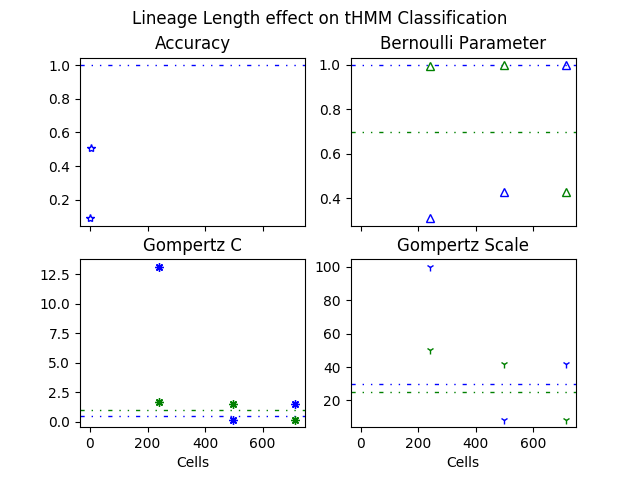
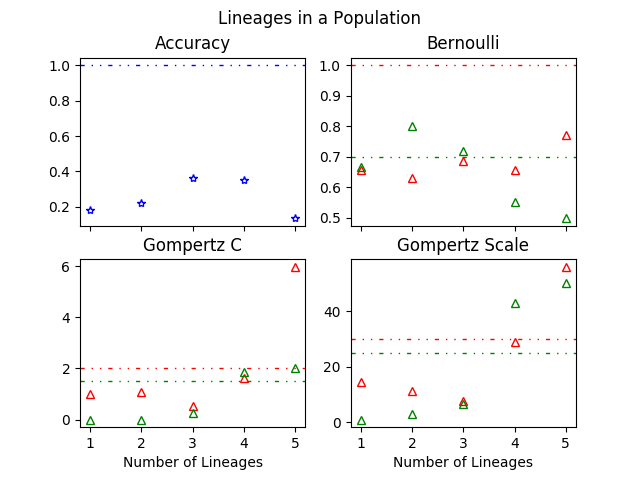
doing figure2

diff --git a/Figure2_2Lineage.py b/Figure2_2Lineage.py
@@ -17,22 +17,19 @@ from lineage.CellNode import CellNode
 
 ########################## Number of Lineages in a population
 
-T_MAS = 50
-T_2 = 50
-
 lineage_start = 1
-lineage_end = 2
+lineage_end = 5
 lineages = range(lineage_start, lineage_end + 1) 
 reps = 1
 
-#MASinitCells = [1]
-MASlocBern = [0.99999999999]
-MAScGom = [2]
-MASscaleGom = [30]
-initCells2 = [1]
-locBern2 = [0.7]
-cGom2 = [1.5]
-scaleGom2 = [25]
+experimentTime = 50
+locBern = [0.99999999999]
+cGom = [2]
+scaleGom = [30]
+switchT = 20
+bern2 = [0.7]
+cG2 = [1.5]
+scaleG2 = [25]
 
 acc_h1 = [] #list of lists of lists
 cell_h1 = []
@@ -58,6 +55,7 @@ for lineage_num in lineages: #a pop with num number of lineages
     
     for rep in range(reps):
         print('Rep:', rep)
+        '''
         MASinitCells = [lineage_num]
         initCells2 = [lineage_num]
         MASexperimentTime = T_MAS
@@ -68,7 +66,7 @@ for lineage_num in lineages: #a pop with num number of lineages
             masterLineage = remove_NaNs(masterLineage)
         experimentTime2 = T_2
         newLineage = []
-        '''
+        
         for lineage in range(lineage_num):
             sublineage2 = gpt(experimentTime2, initCells2, locBern2, cGom2, scaleGom2)
             sublineage2 = remove_NaNs(sublineage2)
@@ -96,21 +94,15 @@ for lineage_num in lineages: #a pop with num number of lineages
         '''
         
         
-        experimentTime = 125 + 75
-        initCells = []
-        locBern = [0.99999999999]
-        cGom = [1]
-        scaleGom = [75]
-        switchT = 125
-        bern2 = [0.6]
-        cG2 = [2]
-        scaleG2 = [50]
+
+        initCells = [lineage_num]
+
         LINEAGE = gpt(experimentTime, initCells, locBern, cGom, scaleGom, switchT, bern2, cG2, scaleG2)
         while len(LINEAGE) == 0:
             LINEAGE = gpt(experimentTime, initCells, locBern, cGom, scaleGom, switchT, bern2, cG2, scaleG2)
         
         X = remove_NaNs(LINEAGE)
-        print(len(newLineage))
+        print(len(LINEAGE))
         numStates = 2
         tHMMobj = tHMM(X, numStates=numStates) # build the tHMM class with X
         fit(tHMMobj, max_iter=200, verbose=False)
@@ -147,17 +139,18 @@ for lineage_num in lineages: #a pop with num number of lineages
             #state_2 = np.argmax(T_non_diag)
             
             state_1 = np.argmax(pi)
-            state_2 = np.argmax(pi)
+            state_2 = np.argmin(pi)
+            
             
             
             wrong = 0
             for cell in range(len(lineage)):
-                if cell < len(masterLineage):
+                if lineage[cell].startT < switchT:
                     if all_states[lin][cell] == state_1:
                         pass
                     else:
                         wrong += 1
-                elif cell >= len(masterLineage) and cell < len(newLineage):
+                elif lineage[cell].startT > switchT:
                     if all_states[lin][cell] == state_2:
                         pass
                     else:
@@ -191,47 +184,47 @@ for lineage_num in lineages: #a pop with num number of lineages
     acc_h1.append(np.mean(acc_h2))
     cell_h1.extend(cell_h2)
     print('h1',cell_h1)
-    bern_MAS_h1.extend(bern_MAS_h2)
-    bern_2_h1.extend(bern_2_h2)
-    cGom_MAS_h1.extend(cGom_MAS_h2)
-    cGom_2_h1.extend(cGom_2_h2)
-    scaleGom_MAS_h1.extend(scaleGom_MAS_h2)
-    scaleGom_2_h1.extend(scaleGom_2_h2)
+    bern_MAS_h1.append(np.mean(bern_MAS_h2))
+    bern_2_h1.append(np.mean(bern_2_h2))
+    cGom_MAS_h1.append(np.mean(cGom_MAS_h2))
+    cGom_2_h1.append(np.mean(cGom_2_h2))
+    scaleGom_MAS_h1.append(np.mean(scaleGom_MAS_h2))
+    scaleGom_2_h1.append(np.mean(scaleGom_2_h2))
     lineage_h1.append(lineage_num)
             
-x=cell_h1
+x=lineage_h1
 print(max(x))
 fig, axs = plt.subplots(nrows=2, ncols=2, sharex=True)
 ax = axs[0,0]
-ax.errorbar(lineage_h1, acc_h1, fmt='o', c='b',marker="*",fillstyle='none')
+ax.errorbar(x, acc_h1, fmt='o', c='b',marker="*",fillstyle='none')
 ax.axhline(y=1, linestyle = (0, (3, 5, 1, 5, 1, 5)), linewidth=1, color='b',)
 ax.set_title('Accuracy')
 #ax.locator_params(nbins=4)
 
 ax = axs[0,1]
-ax.errorbar(x, bern_MAS_h1, fmt='o', c='b',marker="^",fillstyle='none')
+ax.errorbar(x, bern_MAS_h1, fmt='o', c='r',marker="^",fillstyle='none')
 ax.errorbar(x, bern_2_h1, fmt='o', c='g',marker="^",fillstyle='none')
-ax.set_title('Bernoulli Parameter')
-ax.axhline(y= MASlocBern, linestyle = (0, (3, 5, 1, 5, 1, 5)), linewidth=1, color='b')
-ax.axhline(y=locBern2, linestyle = (0, (3, 5, 1, 5, 1, 5)), linewidth=1, color='g')
+ax.set_title('Bernoulli')
+ax.axhline(y= locBern, linestyle = (0, (3, 5, 1, 5, 1, 5)), linewidth=1, color='r')
+ax.axhline(y= bern2, linestyle = (0, (3, 5, 1, 5, 1, 5)), linewidth=1, color='g')
 
 ax = axs[1,0]
-ax.set_xlabel('Cells')
-ax.errorbar(x,cGom_MAS_h1, fmt='o',c='b',marker=(8,2,0))
-ax.errorbar(x,cGom_2_h1, fmt='o',c='g',marker=(8,2,0))
-ax.axhline(y=MAScGom, linestyle = (0, (3, 5, 1, 5, 1, 5)), linewidth=1, color='b')
-ax.axhline(y=cGom2, linestyle = (0, (3, 5, 1, 5, 1, 5)), linewidth=1, color='g')
+ax.set_xlabel('Number of Lineages')
+ax.errorbar(x,cGom_MAS_h1, fmt='o',c='r',marker="^",fillstyle='none')
+ax.errorbar(x,cGom_2_h1, fmt='o',c='g',marker="^",fillstyle='none')
+ax.axhline(y=cGom, linestyle = (0, (3, 5, 1, 5, 1, 5)), linewidth=1, color='r')
+ax.axhline(y=cG2, linestyle = (0, (3, 5, 1, 5, 1, 5)), linewidth=1, color='g')
 ax.set_title('Gompertz C')
 
 
 ax = axs[1,1]
-ax.set_xlabel('Cells')
-ax.errorbar(x,scaleGom_MAS_h1, fmt='o',c='b', marker="1")
-ax.errorbar(x,scaleGom_2_h1, fmt='o',c='g', marker="1")
-ax.axhline(y=MASscaleGom, linestyle = (0, (3, 5, 1, 5, 1, 5)), linewidth=1, color='b')
-ax.axhline(y=scaleGom2, linestyle = (0, (3, 5, 1, 5, 1, 5)), linewidth=1, color='g')
+ax.set_xlabel('Number of Lineages')
+ax.errorbar(x,scaleGom_MAS_h1, fmt='o',c='r',marker="^",fillstyle='none')
+ax.errorbar(x,scaleGom_2_h1, fmt='o',c='g',marker="^",fillstyle='none')
+ax.axhline(y=scaleGom, linestyle = (0, (3, 5, 1, 5, 1, 5)), linewidth=1, color='r')
+ax.axhline(y=scaleG2, linestyle = (0, (3, 5, 1, 5, 1, 5)), linewidth=1, color='g')
 ax.set_title('Gompertz Scale')
 
-fig.suptitle('Lineage Length effect on tHMM Classification')
+fig.suptitle('Lineages in a Population')
 
 plt.savefig('TEST_lineage_number_classification.png')
